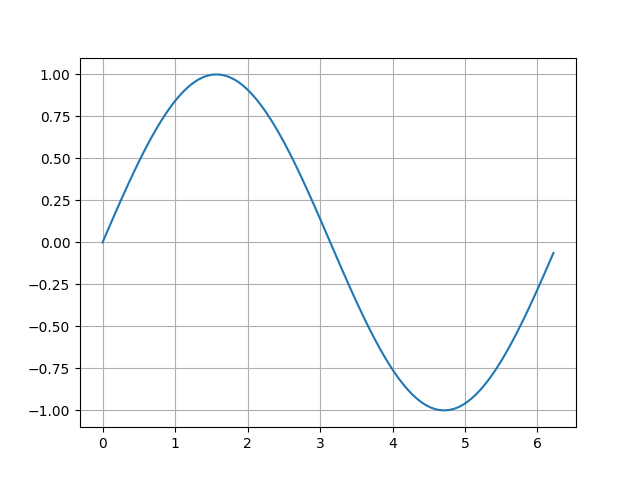
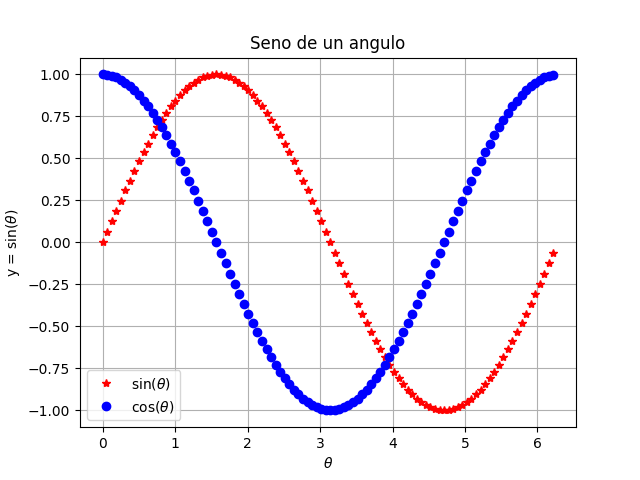
Terminado el codigo de la clase

diff --git a/main.py b/main.py
@@ -1,14 +1,20 @@
 import numpy as np
 import matplotlib.pyplot as plt
 
+# Codigo de la clase
 theta = np.arange(0, 2 * np.pi , 2 * np.pi / 100)
 y = np.sin(theta)
-
-plt.plot(theta,y)
+y2 = np.cos(theta)
+plt.plot(theta,y, "*r", linewidth=5)
+plt.plot(theta,y2, "ob", linewidth=10)
 plt.grid(True)
+plt.title("Seno de un angulo")
+plt.legend([r"sin($\theta$)", r"cos($\theta$)"])
+plt.ylabel(r"y = sin($\theta$)")
+plt.xlabel(r"$\theta$")
 
 # plt.show() doesnt display the image. Maybe a different port??
-# plt.show()
+plt.show()
 
 # Workaround to save the plot into  an image
 plt.savefig("figura")
